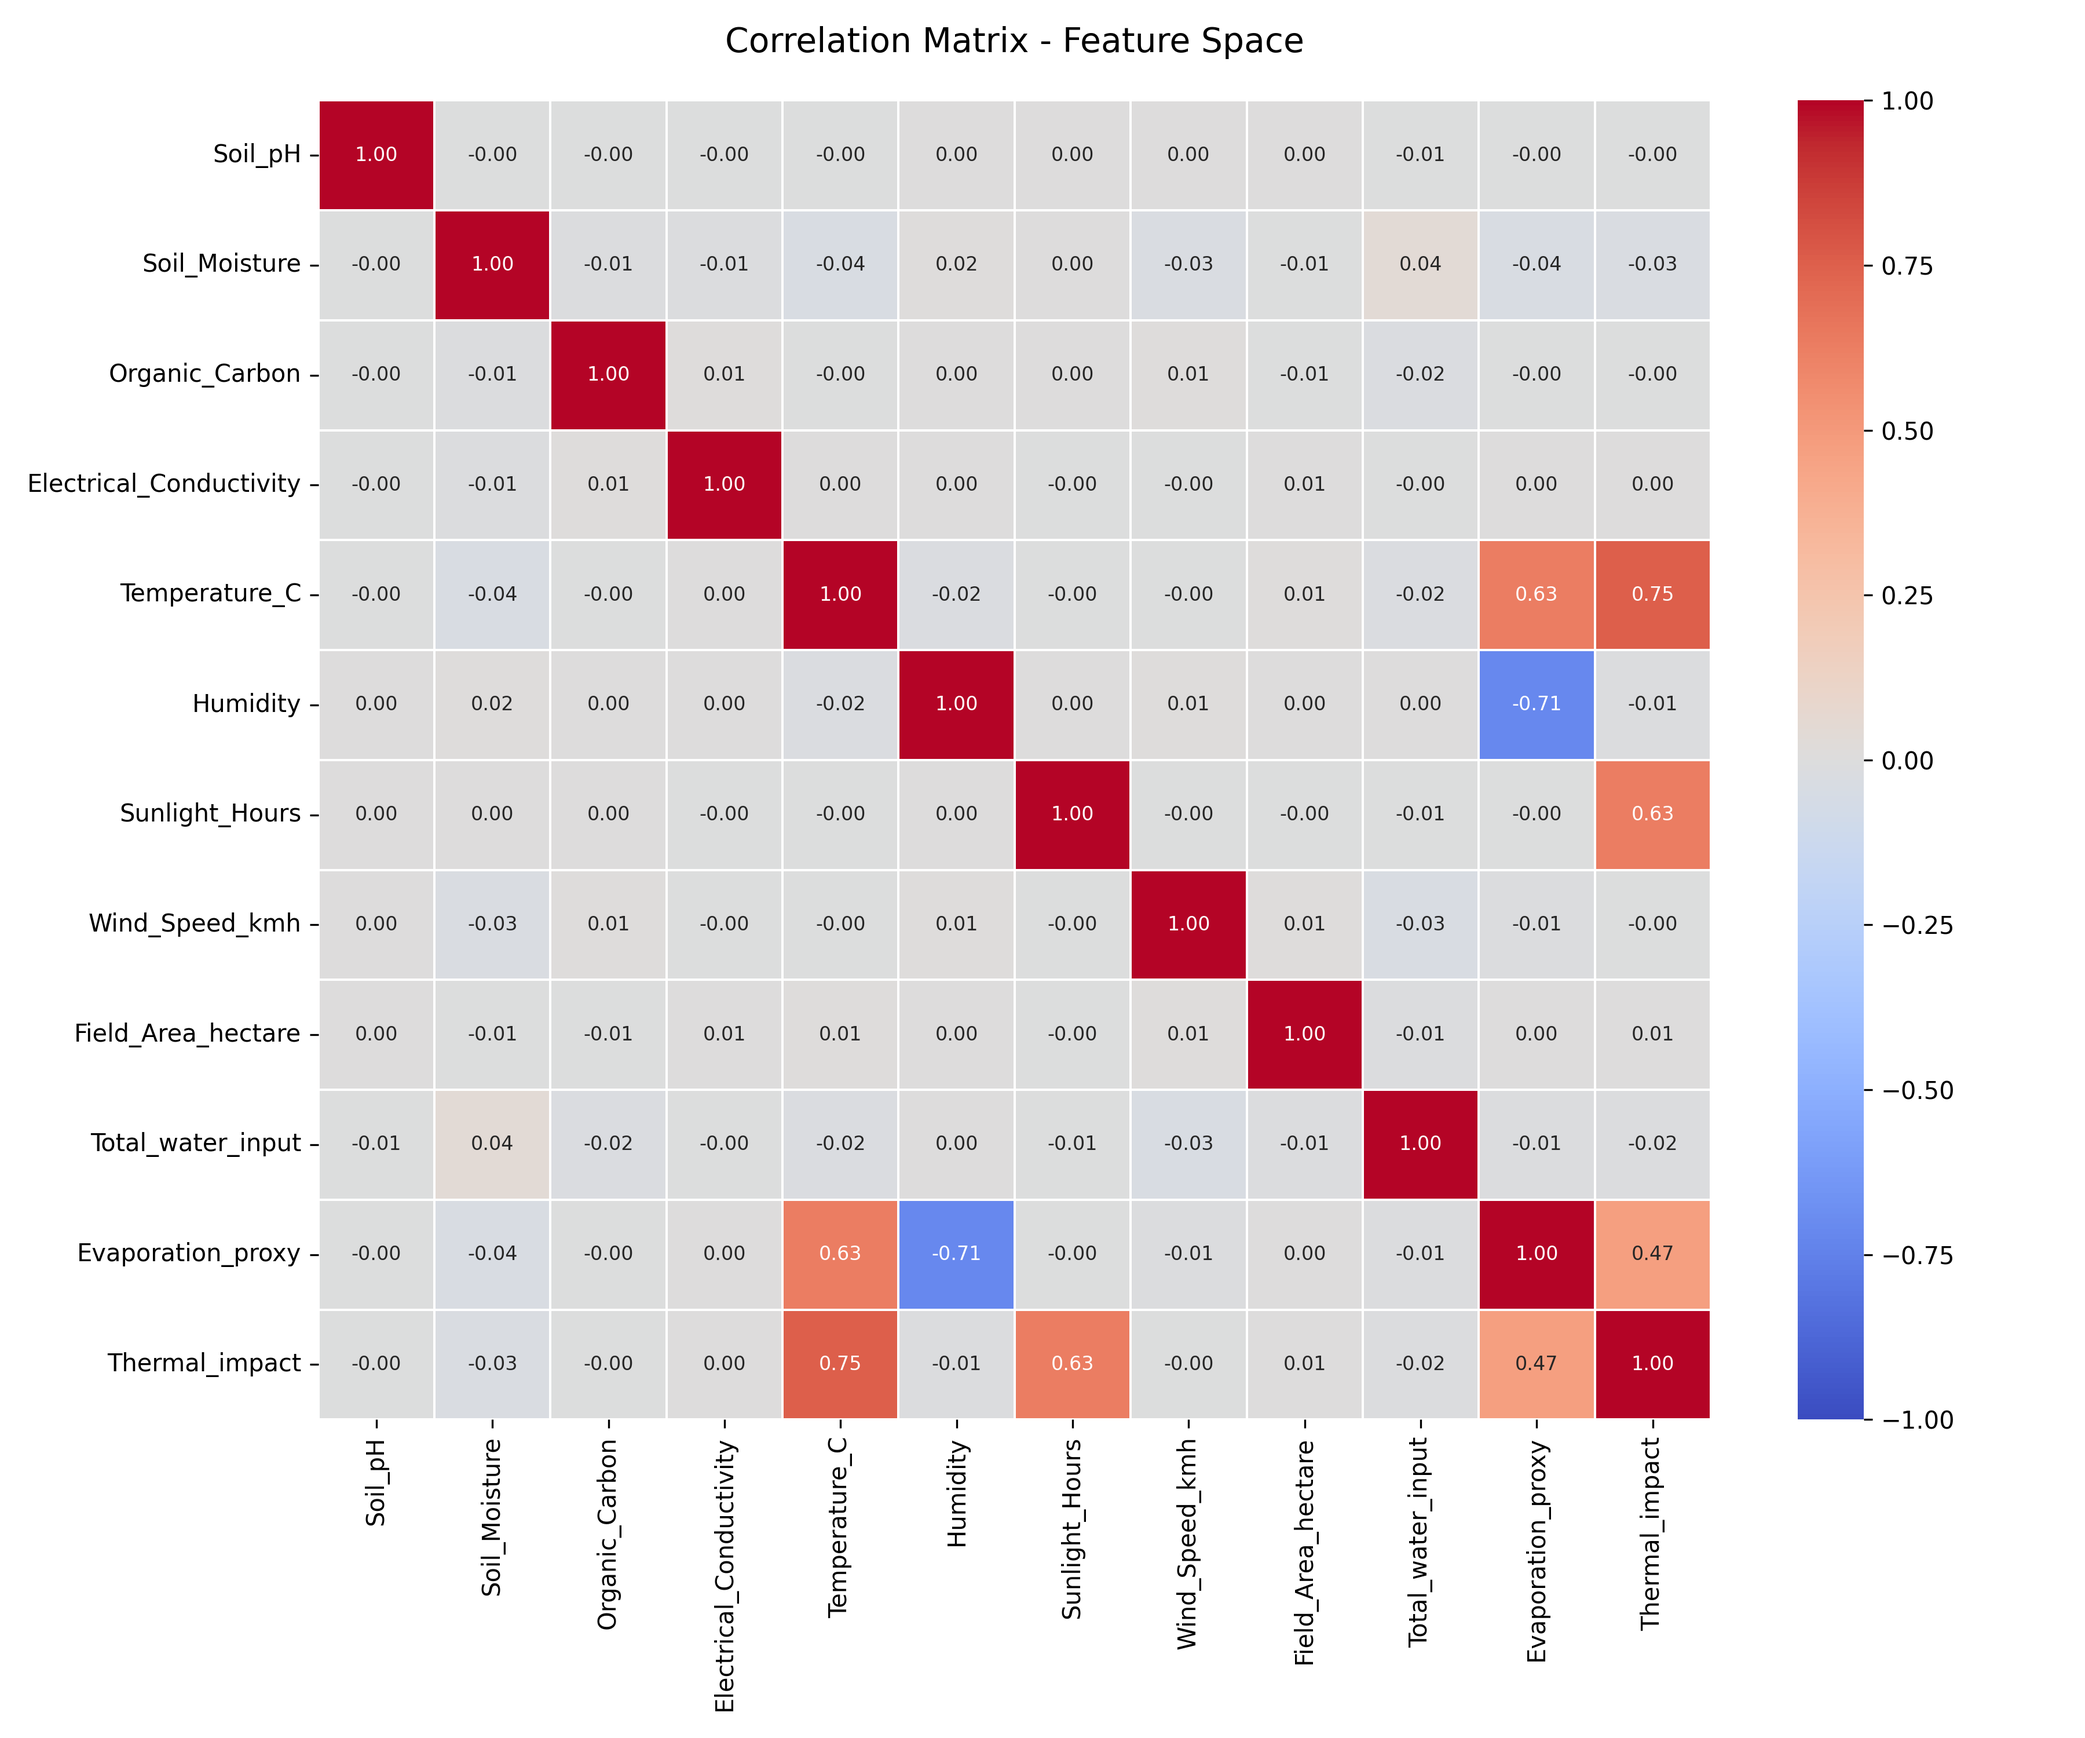
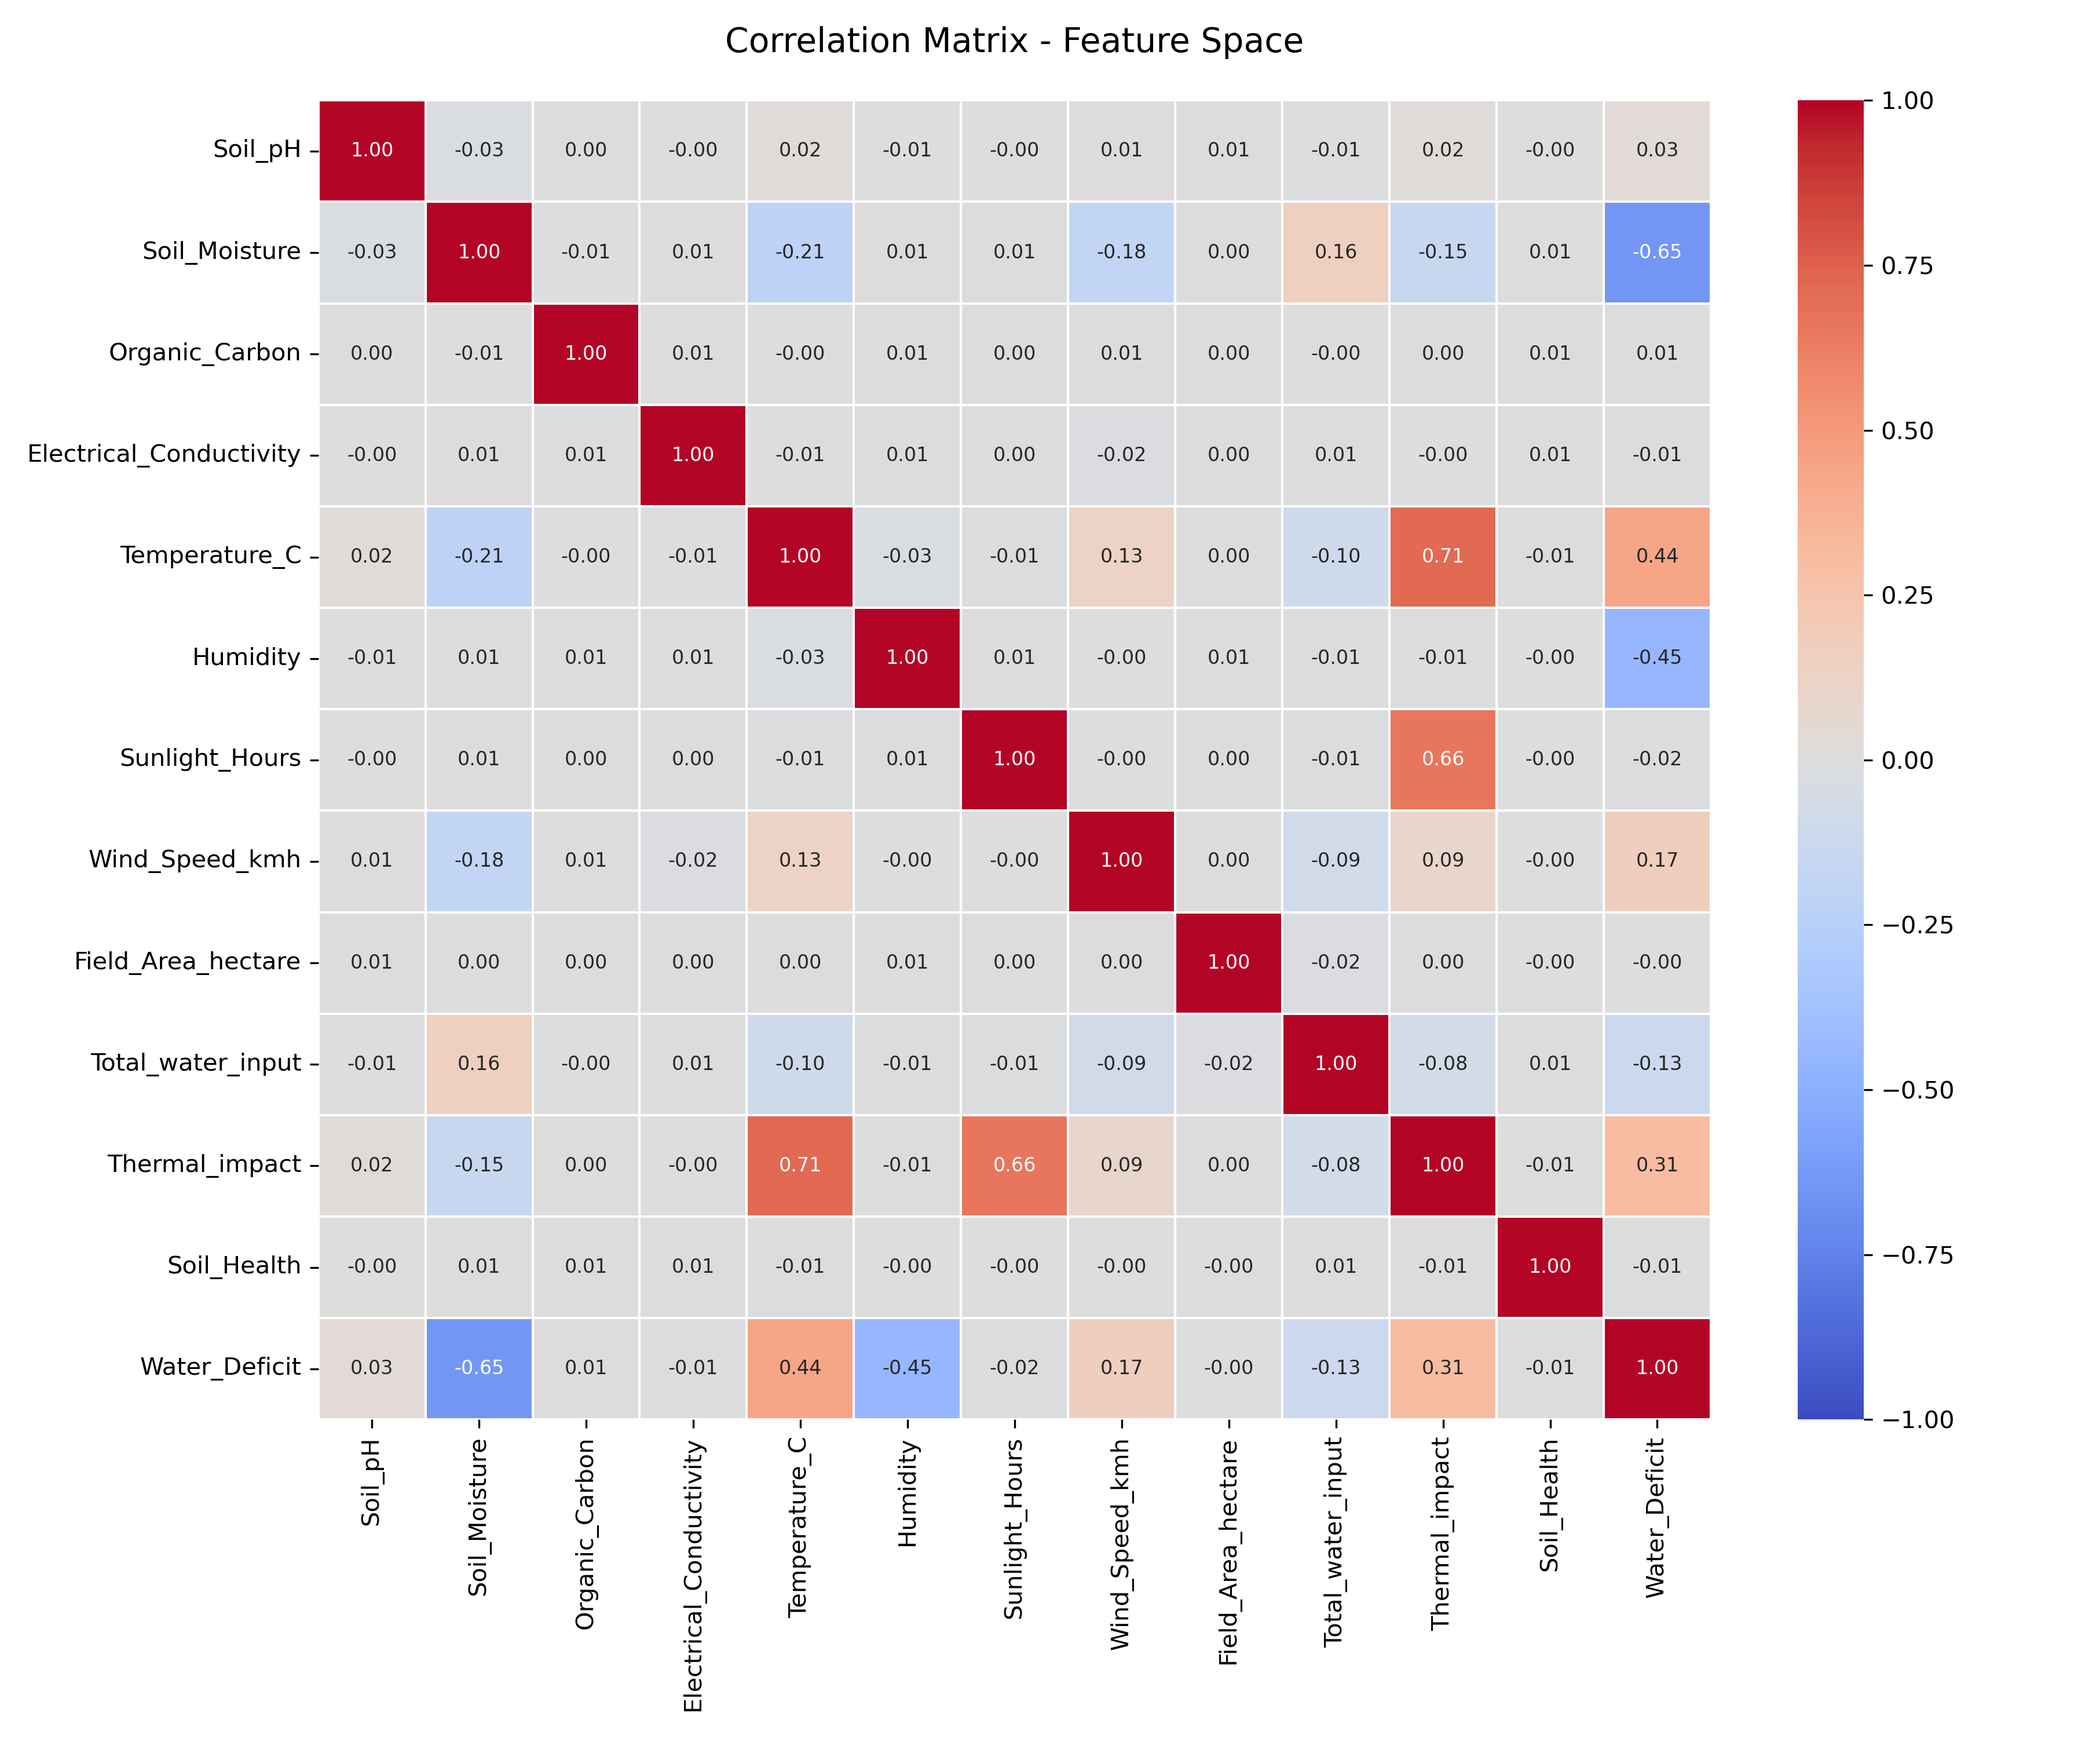
Add new features engineering and model store.
Add new parameters to try to Random Forest model

diff --git a/main.py b/main.py
@@ -20,10 +20,11 @@ from src.metrics import (
 )
 from src.utils import print_log
 import pandas as pd
+os.environ["KMP_DUPLICATE_LIB_OK"] = "TRUE"
 
 def main():
-    USE_BIG_DATA = True
-    FORCE_RETRAIN = True  # Set to True to ignore saved models and retrain from scratch
+    USE_BIG_DATA = False
+    FORCE_RETRAIN = False  # Set to True to ignore saved models and retrain from scratch
 
     dataset_path = os.path.join("data", "train.csv")
 
@@ -31,7 +32,7 @@ def main():
         print_log(f"Error: Dataset file not found")
         return
 
-    print_log("=== PHASE 1: Loading data & Feature Engineering??? ===")
+    print_log("=== PHASE 1: Loading data & Feature Engineering ===")
     sample_size = None if USE_BIG_DATA else 21000
     X, y = load_data(dataset_path, sample_size_per_class=sample_size)
     print_log(f"Dataset ready. Rows: {X.shape[0]}, Columns: {X.shape[1]}")
@@ -56,8 +57,8 @@ def main():
     print("\n" + "=" * 50)
     print("K-NN")
     print("=" * 50)
-    if not FORCE_RETRAIN and model_exists("knn") and not USE_BIG_DATA:
-        best_knn = load_model("knn")
+    if not FORCE_RETRAIN and model_exists("knn", use_big_data=USE_BIG_DATA) and not USE_BIG_DATA:
+        best_knn = load_model("knn", use_big_data=USE_BIG_DATA)
         knn_results = None
     elif USE_BIG_DATA:
         print_log("[INFO] K-NN tuning skipped for RAM limits.")
@@ -66,48 +67,48 @@ def main():
         print_log("Cross-Validation for K-NN (K=3, 5, )...")
         best_knn, knn_results = run_knn(X_train_processed, y_train, bypass=False)
         if best_knn is not None:
-            save_model(best_knn, "knn")
+            save_model(best_knn, "knn", use_big_data=USE_BIG_DATA)
         print_log("Best configuration K-NN completed.")
 
     # --- SVM ---
     print("\n" + "=" * 50)
     print("SVM")
     print("=" * 50)
-    if not FORCE_RETRAIN and model_exists(svm_model_name):
-        best_svm = load_model(svm_model_name)
+    if not FORCE_RETRAIN and model_exists(svm_model_name, use_big_data=USE_BIG_DATA):
+        best_svm = load_model(svm_model_name, use_big_data=USE_BIG_DATA)
         svm_results = None
     else:
         print_log(f"Cross-Validation for SVM (Fast Mode Linear: {fast_svm_mode})...")
         best_svm, svm_results = run_svm(
             X_train_processed, y_train, fast_mode=fast_svm_mode
         )
-        save_model(best_svm, svm_model_name)
+        save_model(best_svm, svm_model_name, use_big_data=USE_BIG_DATA)
         print_log("Best configuration SVM completed.")
 
     # --- Random Forest ---
     print("\n" + "=" * 50)
     print("Random Forest")
     print("=" * 50)
-    if not FORCE_RETRAIN and model_exists("random_forest"):
-        best_rf = load_model("random_forest")
+    if not FORCE_RETRAIN and model_exists("random_forest", use_big_data=USE_BIG_DATA):
+        best_rf = load_model("random_forest", use_big_data=USE_BIG_DATA)
         rf_results = None
     else:
         print_log(f"Cross-Validation for Random Forest...")
         best_rf, rf_results = run_random_forest(X_train_processed, y_train)
-        save_model(best_rf, "random_forest")
+        save_model(best_rf, "random_forest", use_big_data=USE_BIG_DATA)
         print_log("Best configuration Random Forest completed.")
 
     # --- XGBoost ---
     print("\n" + "=" * 50)
     print("XGBoost")
     print("=" * 50)
-    if not FORCE_RETRAIN and model_exists("xgboost"):
-        best_xg = load_model("xgboost")
+    if not FORCE_RETRAIN and model_exists("xgboost", use_big_data=USE_BIG_DATA):
+        best_xg = load_model("xgboost", use_big_data=USE_BIG_DATA)
         xg_results = None
     else:
         print_log(f"Cross-Validation for XGBoost...")
         best_xg, xg_results = run_xgboost(X_train_processed, y_train)
-        save_model(best_xg, "xgboost")
+        save_model(best_xg, "xgboost", use_big_data=USE_BIG_DATA)
         print_log("Best configuration XGBoost completed.")
 
     print_log("=== PHASE 4: Final Evaluation on test data ===")
@@ -139,7 +140,9 @@ def main():
     )
     all_metrics.append(rf_metrics)
     # XGBoost
-    y_pred_xg, xg_metrics = evaluate_model(best_xg, X_test_processed, y_test, model_name="XGBoost")
+    y_pred_xg, xg_metrics = evaluate_model(
+        best_xg, X_test_processed, y_test, model_name="XGBoost"
+    )
     plot_save_confusion_matrix(
         y_test, y_pred_xg, model_name="XGBoost", big_data=USE_BIG_DATA
     )
@@ -200,7 +203,15 @@ def main():
     )
 
     metrics_df = pd.DataFrame(all_metrics)
-    metrics_df.to_csv("results_notebook/model_comparison.csv" if not USE_BIG_DATA else "results_notebook/model_comparison_UsedBigData.csv", index=False, float_format="%.4f")
+    metrics_df.to_csv(
+        (
+            "results_notebook/model_comparison.csv"
+            if not USE_BIG_DATA
+            else "results_notebook/model_comparison_UsedBigData.csv"
+        ),
+        index=False,
+        float_format="%.4f",
+    )
 
     print_log("=== Pipeline executed with success! ===")
 

diff --git a/src/models/load_store.py b/src/models/load_store.py
@@ -3,30 +3,32 @@ import joblib
 
 MODELS_DIR = os.path.join('saved_models')
 
-def get_model_path(model_name):
+def get_model_path(model_name, use_big_data=False):
     """Build the full file path for a saved model."""
     safe_name = model_name.lower().replace(' ', '_')
-    return os.path.join(MODELS_DIR, f"{safe_name}.pkl")
+    dir_name = 'saved_models_BigData' if use_big_data else 'saved_models'
+    return os.path.join(dir_name, f"{safe_name}.pkl")
 
-def save_model(model, model_name):
+def save_model(model, model_name, use_big_data=False):
     """Save a trained model to disk using joblib."""
-    os.makedirs(MODELS_DIR, exist_ok=True)
-    filepath = get_model_path(model_name)
+    dir_name = 'saved_models_BigData' if use_big_data else 'saved_models'
+    os.makedirs(dir_name, exist_ok=True)
+    filepath = get_model_path(model_name, use_big_data)
     joblib.dump(model, filepath)
     print(f"  [SAVE] Model saved: {filepath}")
 
-def load_model(model_name):
+def load_model(model_name, use_big_data=False):
     """
     Load a previously saved model from disk.
     Returns the model if found, None otherwise.
     """
-    filepath = get_model_path(model_name)
+    filepath = get_model_path(model_name, use_big_data)
     if os.path.exists(filepath):
         model = joblib.load(filepath)
         print(f"  [LOAD] Model loaded from cache: {filepath}")
         return model
     return None
 
-def model_exists(model_name):
+def model_exists(model_name, use_big_data=False):
     """Check if a saved model exists on disk."""
-    return os.path.exists(get_model_path(model_name))
+    return os.path.exists(get_model_path(model_name, use_big_data))

diff --git a/src/data/preprocessing.py b/src/data/preprocessing.py
@@ -1,4 +1,3 @@
-from sklearn.compose import _column_transformer
 import pandas as pd
 import numpy as np
 from sklearn.model_selection import train_test_split
@@ -47,9 +46,17 @@ def features_engineering(df):
     # Total water stored in the terrain
     df['Total_water_input'] = df['Rainfall_mm'] + df['Previous_Irrigation_mm']
     # Evaportaion risk index
-    df['Evaporation_proxy'] = df['Temperature_C'] / (df['Humidity'] + 1e-5)
+    # df['Evaporation_proxy'] = df['Temperature_C'] / (df['Humidity'] + 1e-5)
+    evap_proxy = df['Temperature_C'] / (df['Humidity'] + 1e-5)
     # Daily thermo impact
     df['Thermal_impact'] = df['Temperature_C'] * df['Sunlight_Hours']
+
+    # Soil Health (Carbonio Organico scalato sulla deviazione dal pH ottimale di 6.5)
+    ph_deviation = np.abs(df['Soil_pH'] - 6.5)
+    df['Soil_Health'] = df['Organic_Carbon'] / (ph_deviation + 1e-5)
+
+    # Water Deficit (Rapporto tra domanda atmosferica e umidità reale del suolo)
+    df['Water_Deficit'] = evap_proxy / (df['Soil_Moisture'] + 1e-5)
 
     cols_to_drop = ['Rainfall_mm', 'Previous_Irrigation_mm']
     df = df.drop(columns=cols_to_drop)
@@ -66,8 +73,8 @@ def get_pipeline_transformer():
         'Soil_pH', 'Soil_Moisture', 'Organic_Carbon', 'Electrical_Conductivity', 
         'Temperature_C', 'Humidity', 'Sunlight_Hours', 
         'Wind_Speed_kmh', 'Field_Area_hectare',
-        'Total_water_input', 'Evaporation_proxy', 'Thermal_impact',
-        # 'Rainfall_mm', 'Previous_Irrigation_mm'
+        'Total_water_input', 'Thermal_impact',
+        # 'Rainfall_mm', 'Previous_Irrigation_mm', 'Evaporation_proxy'
     ]
 
     categorical_cols = [

diff --git a/src/metrics/visualization.py b/src/metrics/visualization.py
@@ -10,6 +10,7 @@ from sklearn.neighbors import KNeighborsClassifier
 from sklearn.metrics import classification_report, f1_score, roc_curve, auc
 from sklearn.preprocessing import label_binarize
 from src.utils import print_log
+plt.use('Agg')
 
 
 def plot_decision_boundaries_2d(
@@ -142,7 +143,7 @@ def plot_correlation_matrix(df, output_dir="results_notebook"):
     plt.tight_layout()
 
     os.makedirs(output_dir, exist_ok=True)
-    filepath = os.path.join(output_dir, "correlation_matrix.png")
+    filepath = os.path.join(output_dir, "correlation_matrix_2.png")
     plt.savefig(filepath, dpi=300)
     plt.close()
     print(f"Correlation Matrix saved with success in: {filepath}")
@@ -151,7 +152,7 @@ def plot_correlation_matrix(df, output_dir="results_notebook"):
 def plot_feature_importance(
     model,
     feature_names,
-    outout_dir="results_notebook",
+    output_dir="results_notebook",
     filename="feature_importance.png",
 ):
     if not hasattr(model, "feature_importances_"):
@@ -177,8 +178,8 @@ def plot_feature_importance(
     plt.gca().invert_yaxis()
     plt.tight_layout()
 
-    os.makedirs(outout_dir, exist_ok=True)
-    filepath = os.path.join(outout_dir, filename)
+    os.makedirs(output_dir, exist_ok=True)
+    filepath = os.path.join(output_dir, filename)
     plt.savefig(filepath, dpi=300)
     plt.close()
     print(f"Feature Importance saved: {filepath}")

diff --git a/src/models/models.py b/src/models/models.py
@@ -1,5 +1,4 @@
 from sklearn.utils import compute_sample_weight
-from prompt_toolkit.key_binding.bindings.scroll import scroll_forward
 from sklearn.neighbors import KNeighborsClassifier
 from sklearn.svm import SVC, LinearSVC
 from sklearn.ensemble import RandomForestClassifier
@@ -47,8 +46,14 @@ def run_svm(X_train, y_train, fast_mode=True):
     return grid_search.best_estimator_, grid_search.cv_results_
 
 def run_random_forest(X_train, y_train):
-    param_grid = {'n_estimators': [50, 100, 150, 200, 250, 300]}
-    rf = RandomForestClassifier(n_estimators=100, class_weight='balanced', random_state=42, n_jobs=-1)
+    param_grid = {
+        'n_estimators': [100, 200, 300],
+        'max_depth': [10, 20, 30, None],
+        'min_samples_split': [2, 5, 10],
+        'min_samples_leaf': [1, 2, 4],
+        
+    }
+    rf = RandomForestClassifier(class_weight='balanced', random_state=42, n_jobs=-1)
     grid_search = GridSearchCV(rf, param_grid, cv=3, scoring='f1_macro', n_jobs=-1, verbose=3)
     grid_search.fit(X_train, y_train)
     
